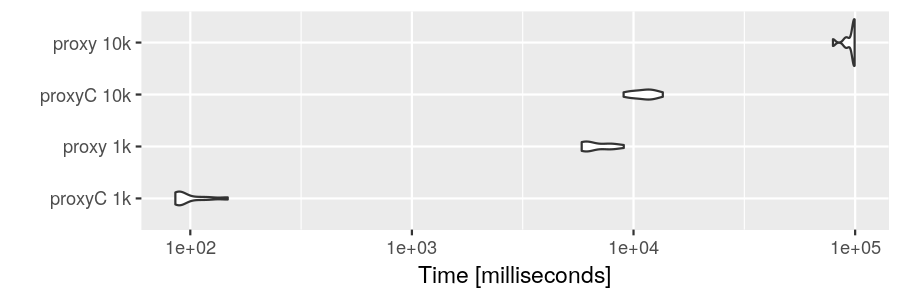
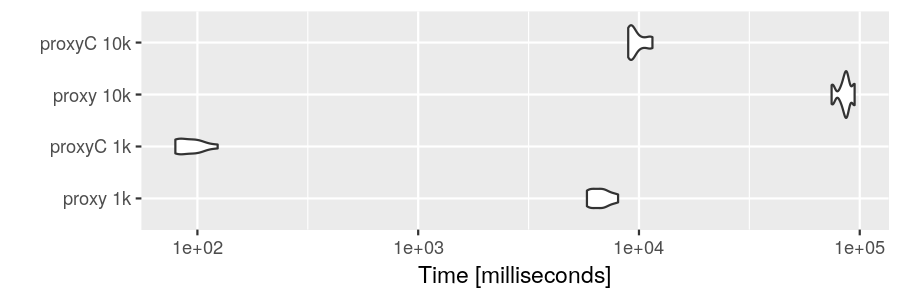
version 0.1.4

diff --git a/src/RcppExports.cpp b/src/RcppExports.cpp
@@ -22,6 +22,28 @@ BEGIN_RCPP
     return rcpp_result_gen;
 END_RCPP
 }
+// cpp_sd
+NumericVector cpp_sd(arma::sp_mat& mt);
+RcppExport SEXP _proxyC_cpp_sd(SEXP mtSEXP) {
+BEGIN_RCPP
+    Rcpp::RObject rcpp_result_gen;
+    Rcpp::RNGScope rcpp_rngScope_gen;
+    Rcpp::traits::input_parameter< arma::sp_mat& >::type mt(mtSEXP);
+    rcpp_result_gen = Rcpp::wrap(cpp_sd(mt));
+    return rcpp_result_gen;
+END_RCPP
+}
+// cpp_nz
+NumericVector cpp_nz(arma::sp_mat& mt);
+RcppExport SEXP _proxyC_cpp_nz(SEXP mtSEXP) {
+BEGIN_RCPP
+    Rcpp::RObject rcpp_result_gen;
+    Rcpp::RNGScope rcpp_rngScope_gen;
+    Rcpp::traits::input_parameter< arma::sp_mat& >::type mt(mtSEXP);
+    rcpp_result_gen = Rcpp::wrap(cpp_nz(mt));
+    return rcpp_result_gen;
+END_RCPP
+}
 // cpp_pair
 S4 cpp_pair(arma::sp_mat& mt1, arma::sp_mat& mt2, const int method, unsigned int rank, double limit, double weight, bool symm);
 RcppExport SEXP _proxyC_cpp_pair(SEXP mt1SEXP, SEXP mt2SEXP, SEXP methodSEXP, SEXP rankSEXP, SEXP limitSEXP, SEXP weightSEXP, SEXP symmSEXP) {
@@ -42,6 +64,8 @@ END_RCPP
 
 static const R_CallMethodDef CallEntries[] = {
     {"_proxyC_cpp_linear", (DL_FUNC) &_proxyC_cpp_linear, 6},
+    {"_proxyC_cpp_sd", (DL_FUNC) &_proxyC_cpp_sd, 1},
+    {"_proxyC_cpp_nz", (DL_FUNC) &_proxyC_cpp_nz, 1},
     {"_proxyC_cpp_pair", (DL_FUNC) &_proxyC_cpp_pair, 7},
     {NULL, NULL, 0}
 };

diff --git a/src/linear.cpp b/src/linear.cpp
@@ -4,6 +4,15 @@
 using namespace proxyc;
 using namespace arma;
 
+rowvec nnz(const sp_mat& mt) {
+    rowvec v(mt.n_cols, fill::zeros);
+    if (mt.is_empty()) return(v);
+    for (uword i = 0; i < mt.n_cols; i++) {
+        v[i] = sum(colvec(mt.col(i)) != 0);
+    }
+    return(v);
+}
+
 rowvec stddev(const sp_mat& mt, const int norm_type) {
     rowvec v(mt.n_cols, fill::zeros);
     if (mt.is_empty()) return(v);
@@ -124,6 +133,18 @@ S4 cpp_linear(arma::sp_mat& mt1,
     //dev::stop_timer("Compute similarity", timer);
 
     return to_matrix(simil_tri, ncol1, ncol2, symm);
+}
+
+// [[Rcpp::export]]
+NumericVector cpp_sd(arma::sp_mat& mt) {
+    std::vector<double> sds = to_vector(stddev(mt, 0));
+    return wrap(sds);
+}
+
+// [[Rcpp::export]]
+NumericVector cpp_nz(arma::sp_mat& mt) {
+    std::vector<double> nzs = to_vector(nnz(mt));
+    return wrap(nzs);
 }
 
 /***R

diff --git a/README.md b/README.md
@@ -26,6 +26,8 @@ require(RcppParallel)
 ## Loading required package: RcppParallel
 require(ggplot2)
 ## Loading required package: ggplot2
+require(magrittr)
+## Loading required package: magrittr
 
 # Set number of threads
 setThreadOptions(8)
@@ -46,10 +48,10 @@ With sparse matrices, **proxyC** is roughly 10 to 100 times faster than
 
 ``` r
 bm1 <- microbenchmark(
-    "proxyC 1k" = proxyC::simil(sm1k, margin = 2, method = "cosine"),
     "proxy 1k" = proxy::simil(dm1k, method = "cosine"),
-    "proxyC 10k" = proxyC::simil(sm10k, margin = 2, method = "cosine"),
+    "proxyC 1k" = proxyC::simil(sm1k, margin = 2, method = "cosine"),
     "proxy 10k" = proxy::simil(dm10k, method = "cosine"),
+    "proxyC 10k" = proxyC::simil(sm10k, margin = 2, method = "cosine"),
     times = 10
 )
 autoplot(bm1)
@@ -58,15 +60,15 @@ autoplot(bm1)
 
 ![](man/images/unnamed-chunk-4-1.png)<!-- -->
 
-## Top-10 cosine similarity
+## Cosine similarity greater than 0.9
 
-If `rank` is used, **proxyC** becomes even faster as many similarity
-scores are discarded (rounded to zero).
+If `min_simil` is used, **proxyC** becomes even faster because small
+similarity scores are floored to zero.
 
 ``` r
 bm2 <- microbenchmark(
-    "proxyC rank" = proxyC::simil(sm1k, margin = 2, method = "cosine", rank = 10),
     "proxyC all" = proxyC::simil(sm1k, margin = 2, method = "cosine"),
+    "proxyC min_simil" = proxyC::simil(sm1k, margin = 2, method = "cosine", min_simil = 0.9),
     times = 10
 )
 autoplot(bm2)
@@ -75,13 +77,26 @@ autoplot(bm2)
 
 ![](man/images/unnamed-chunk-5-1.png)<!-- -->
 
-## Correlation greater than 0.9
+Flooring by `min_simil` makes the resulting object much smaller.
 
-`min_simil` also makes **proxyC** faster.
+``` r
+proxyC::simil(sm10k, margin = 2, method = "cosine") %>% 
+  object.size() %>% 
+  print(units = "MB")
+## 762.9 Mb
+proxyC::simil(sm10k, margin = 2, method = "cosine", min_simil = 0.9) %>% 
+  object.size() %>% 
+  print(units = "MB")
+## 0.2 Mb
+```
+
+## Top-10 correlation
+
+If `rank` is used, **proxyC** only returns top-n values.
 
 ``` r
 bm3 <- microbenchmark(
-    "proxyC min_simil" = proxyC::simil(sm1k, margin = 2, method = "correlation", min_simil = 0.9),
+    "proxyC rank" = proxyC::simil(sm1k, margin = 2, method = "correlation", rank = 10),
     "proxyC all" = proxyC::simil(sm1k, margin = 2, method = "correlation"),
     times = 10
 )
@@ -89,4 +104,4 @@ autoplot(bm3)
 ## Coordinate system already present. Adding new coordinate system, which will replace the existing one.
 ```
 
-![](man/images/unnamed-chunk-6-1.png)<!-- -->
+![](man/images/unnamed-chunk-7-1.png)<!-- -->

diff --git a/NEWS.md b/NEWS.md
@@ -1,4 +1,10 @@
-# v0.1.2
+# v0.1.4
+
+## New feature
+
+- Add rowSds(), colSds(), rowZeros() and colZeros()
+
+# v0.1.3
 
 ## Bug fix
 
